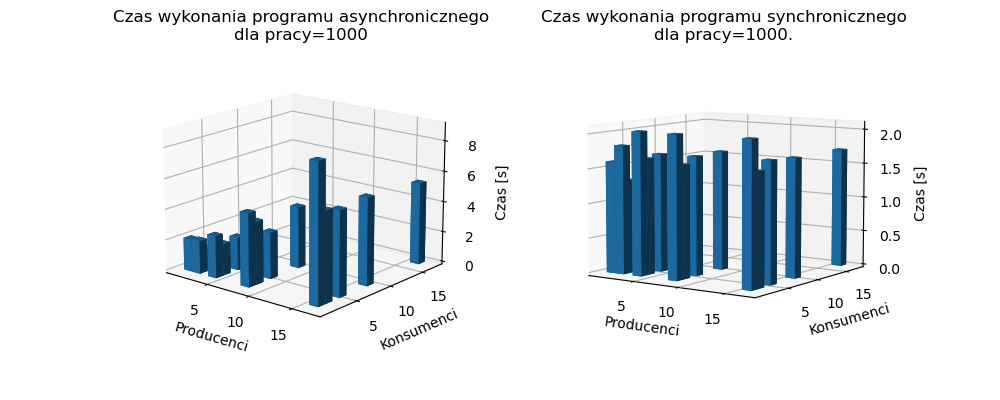
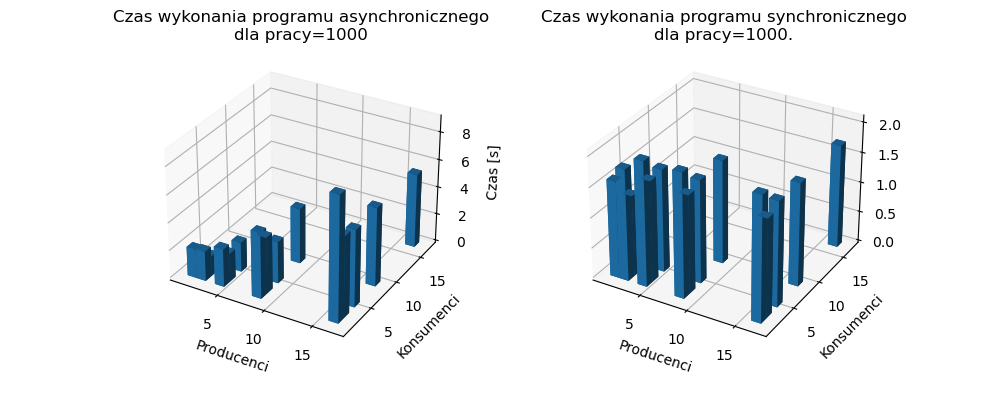
Finished raport

diff --git a/async_programming/raport/plots.py b/async_programming/raport/plots.py
@@ -27,7 +27,6 @@ with open("results_async.txt", "r") as file:
 
 # print(results_async_list)
 
-
 # sync
 results_sync_list = []
 with open("results_sync.txt", "r") as file:
@@ -55,41 +54,51 @@ with open("results_sync.txt", "r") as file:
         results_sync_list.append(result)
 
 
-workDone = 1000
 
-fig = plt.figure(figsize=(10, 4))
-ax1 = fig.add_subplot(121, projection='3d')
-ax2 = fig.add_subplot(122, projection='3d')
+
+workDone = 1000
+fig = plt.figure(figsize=(5, 4))
+# fig = plt.figure(figsize=(10, 4))
+ax1 = fig.add_subplot(111, projection='3d')
+# ax1 = fig.add_subplot(121, projection='3d')
+# ax2 = fig.add_subplot(122, projection='3d')
 
 
 width = depth = 1
 x = [ prod for prod, cons, work, _, _, _ in results_async_list if work == workDone]
 y = [ cons for prod, cons, work, _, _, _ in results_async_list if work == workDone]
-async_times = [ time[0] for prod, cons, work, time, _, _ in results_async_list if work == workDone]
-bottom = np.zeros_like(async_times)
+a_top = [ time[0] for prod, cons, work, time, prod_work, cons_work in results_async_list if work == workDone]
+a_top = [ prod_work[0] for prod, cons, work, time, prod_work, cons_work in results_async_list if work == workDone]
+a_top = [ cons_work[0] for prod, cons, work, time, prod_work, cons_work in results_async_list if work == workDone]
+bottom = np.zeros_like(a_top)
 
-ax1.bar3d(x, y, bottom, width, depth, async_times, shade=True)
-ax1.set_title(f'Czas wykonania programu asynchronicznego\ndla pracy={workDone}')
+ax1.bar3d(x, y, bottom, width, depth, a_top, shade=True)
+ax1.set_title(f'Liczba pętli pracy producenta asynchronicznego\ndla pracy={workDone}')
+# ax1.set_title(f'Czas wykonania programu asynchronicznego\ndla pracy={workDone}')
 ax1.set_xlabel('Producenci')
 ax1.set_ylabel('Konsumenci')
-ax1.set_zlabel('Czas [s]')
+# ax1.set_zlabel('Czas [s]')
+ax1.set_zlabel('Licznik pętli')
 
+#######################################################################################
 
 x = [ prod for prod, cons, work, _, _, _ in results_sync_list if work == workDone]
 y = [ cons for prod, cons, work, _, _, _ in results_sync_list if work == workDone]
-sync_times = [ time[0] for prod, cons, work, time, _, _ in results_sync_list if work == workDone]
-bottom = np.zeros_like(sync_times)
-
-# print([ prod for prod, cons, work, _, _, _ in results_async_list] == [ prod for prod, cons, work, _, _, _ in results_sync_list])
+s_top = [ time[0] for prod, cons, work, time, prod_work, cons_work  in results_sync_list if work == workDone]
+bottom = np.zeros_like(s_top)
 
 # print(results_sync_list)
-ax2.bar3d(x, y, bottom, width, depth, sync_times, shade=True)
-ax2.set_title(f'Czas wykonania programu synchronicznego\ndla pracy={workDone}.')
-ax2.set_xlabel('Producenci')
-ax2.set_ylabel('Konsumenci')
-ax2.set_zlabel('Czas [s]')
-
-
+# ax2.bar3d(x, y, bottom, width, depth, s_top, shade=True)
+# ax2.set_title(f'Czas wykonania programu synchronicznego\ndla pracy={workDone}.')
+# ax2.set_xlabel('Producenci')
+# ax2.set_ylabel('Konsumenci')
+# ax2.set_zlabel('Czas [s]')
 
 plt.show()
-fig.savefig('Figure_3.png')
+fig.savefig('Figure_6.png')
+
+
+##############################################################
+# workDone = 10
+# fig = plt.figure(figsize=(10, 4))
+# ax1 = fig.add_subplot(111, projection='3d')

diff --git a/async_programming/raport/raport.md b/async_programming/raport/raport.md
@@ -68,17 +68,42 @@ W uproszczeniu: dla każdego producenta mamy listę liczników (doneWork). Dla k
 ## Badane parametry
 * Liczba producentów: 1, 2, 4, 8, 16
 * Liczba konsumentów: 1, 2, 4, 8, 16
-* Liczba wykonanej pracy $amount$: 10, 100, 1000
+* Liczba wykonanej pracy: 10, 100, 1000
+
+Liczba producentów jest zawsze większa lub równa liczbie konsumentów
 
 ## Wyniki
+<div style="text-align: center;">
+
 ![alt text](Figure_1.png "Title")
+
 Rysunek 1. Porównanie czasów wykonania dla pracy=10
+
 ![alt text](Figure_2.png "Title")
+
 Rysunek 2. Porównanie czasów wykonania dla pracy=100
+
 ![alt text](Figure_3.png "Title")
+
 Rysunek 3. Porównanie czasów wykonania dla pracy=1000
 
+![alt text](Figure_4.png "Title")
+
+Rysunek 4. Liczba wykonania zadań (iteracji pętli) w modelu asynchronicznym dla pracy = 10
+
+![alt text](Figure_5.png "Title")
+
+Rysunek 5. Liczba wykonania zadań (iteracji pętli) w modelu asynchronicznym dla pracy = 100
+
+![alt text](Figure_6.png "Title")
+
+Rysunek 6. Liczba wykonania zadań (iteracji pętli) w modelu asynchronicznym dla pracy = 1000
+
+</div>
+
 ## Wnioski
-* W przypadku asynchronicznym liczba wątków (producentów i konsumentów) ma spory wpływ na czas wykonanie $x$ operacji. W większości przypadków im więcej wątków tym dłuższy czas obsługi. Dla przypadku synchronicznego ta liczba nie miała większego znaczenia.
-* Rozmiar wykonanej pracy w przypadku synchronicznym sprawiał, że czas wykonania zadania wzrastał. W przypadku asynchronicznym wraz jeśli było mało wątków i to szybsza była wersja z małą ilością pracy, natomiast w przypadku wielu, szybsza okazywała się wersja z dużą ilością pracy. Może być to spowodowane przez mniej dostępów do współdzielonej kolejki blokującej.
+* W przypadku asynchronicznym liczba wątków (producentów i konsumentów) ma spory wpływ na czas wykonanie x operacji. W większości przypadków im więcej wątków tym dłuższy czas obsługi. Dla przypadku synchronicznego ta liczba nie miała większego znaczenia.
+* Wzrost wykonywanej pracy w przypadku synchronicznym sprawiał, że czas wykonania zadania równomiernie wzrastał. W przypadku asynchronicznym wraz jeśli było mało wątków i to szybsza była wersja z małą ilością pracy, natomiast w przypadku wielu, szybsza okazywała się wersja z dużą ilością pracy. Może być to spowodowane przez mniej dostępów do współdzielonej kolejki blokującej.
+* Wzrost wykonywanej pracy w modelu asynchronicznym sprawiał, że w przypadku dużej ilości wykonywanej pracy stosunkowo malała. Być może jest to spowodowane przez rzadsze zlecanie pracy wątkowi koordynującemu dostęp do bufora.
+* W zastosowanej implementacji w każdym przypadku model synchroniczny okazał się szybszy. Jednak potencjalnie mógłby okazać się lepszy w przypadku dużej ilości pracy do wywołania między kolejnymi dostępami do bufora. Inny przypadek który mógłby faworyzować podejście asynchroniczne to taki, gdzie nie mamy bezpośredniej możliwości wpływać na dostęp do bufora, lub jest on bardzo wolny jak na przykład w systemach rozproszonych.
 
